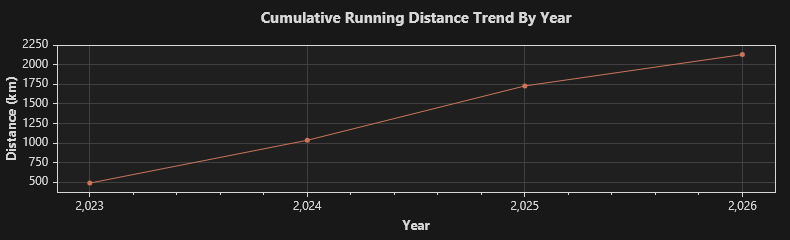
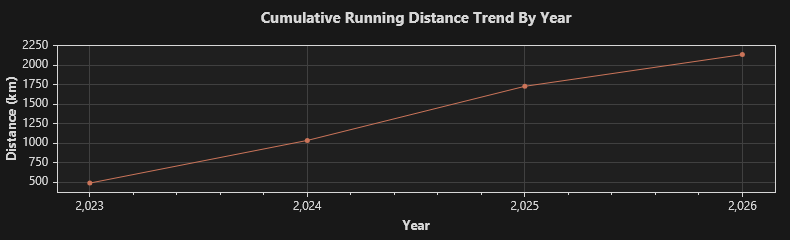
2026/7/31 跑步 6.01 公里

diff --git a/trend.md b/trend.md
@@ -1,4 +1,4 @@
-### Total: 362 days, 2128.34 km.
+### Total: 363 days, 2134.35 km.
 
 
 ![Monthly](https://github.com/prime167/MyRunningLog/blob/main/data/CumulativeTrendByMonth.png)
